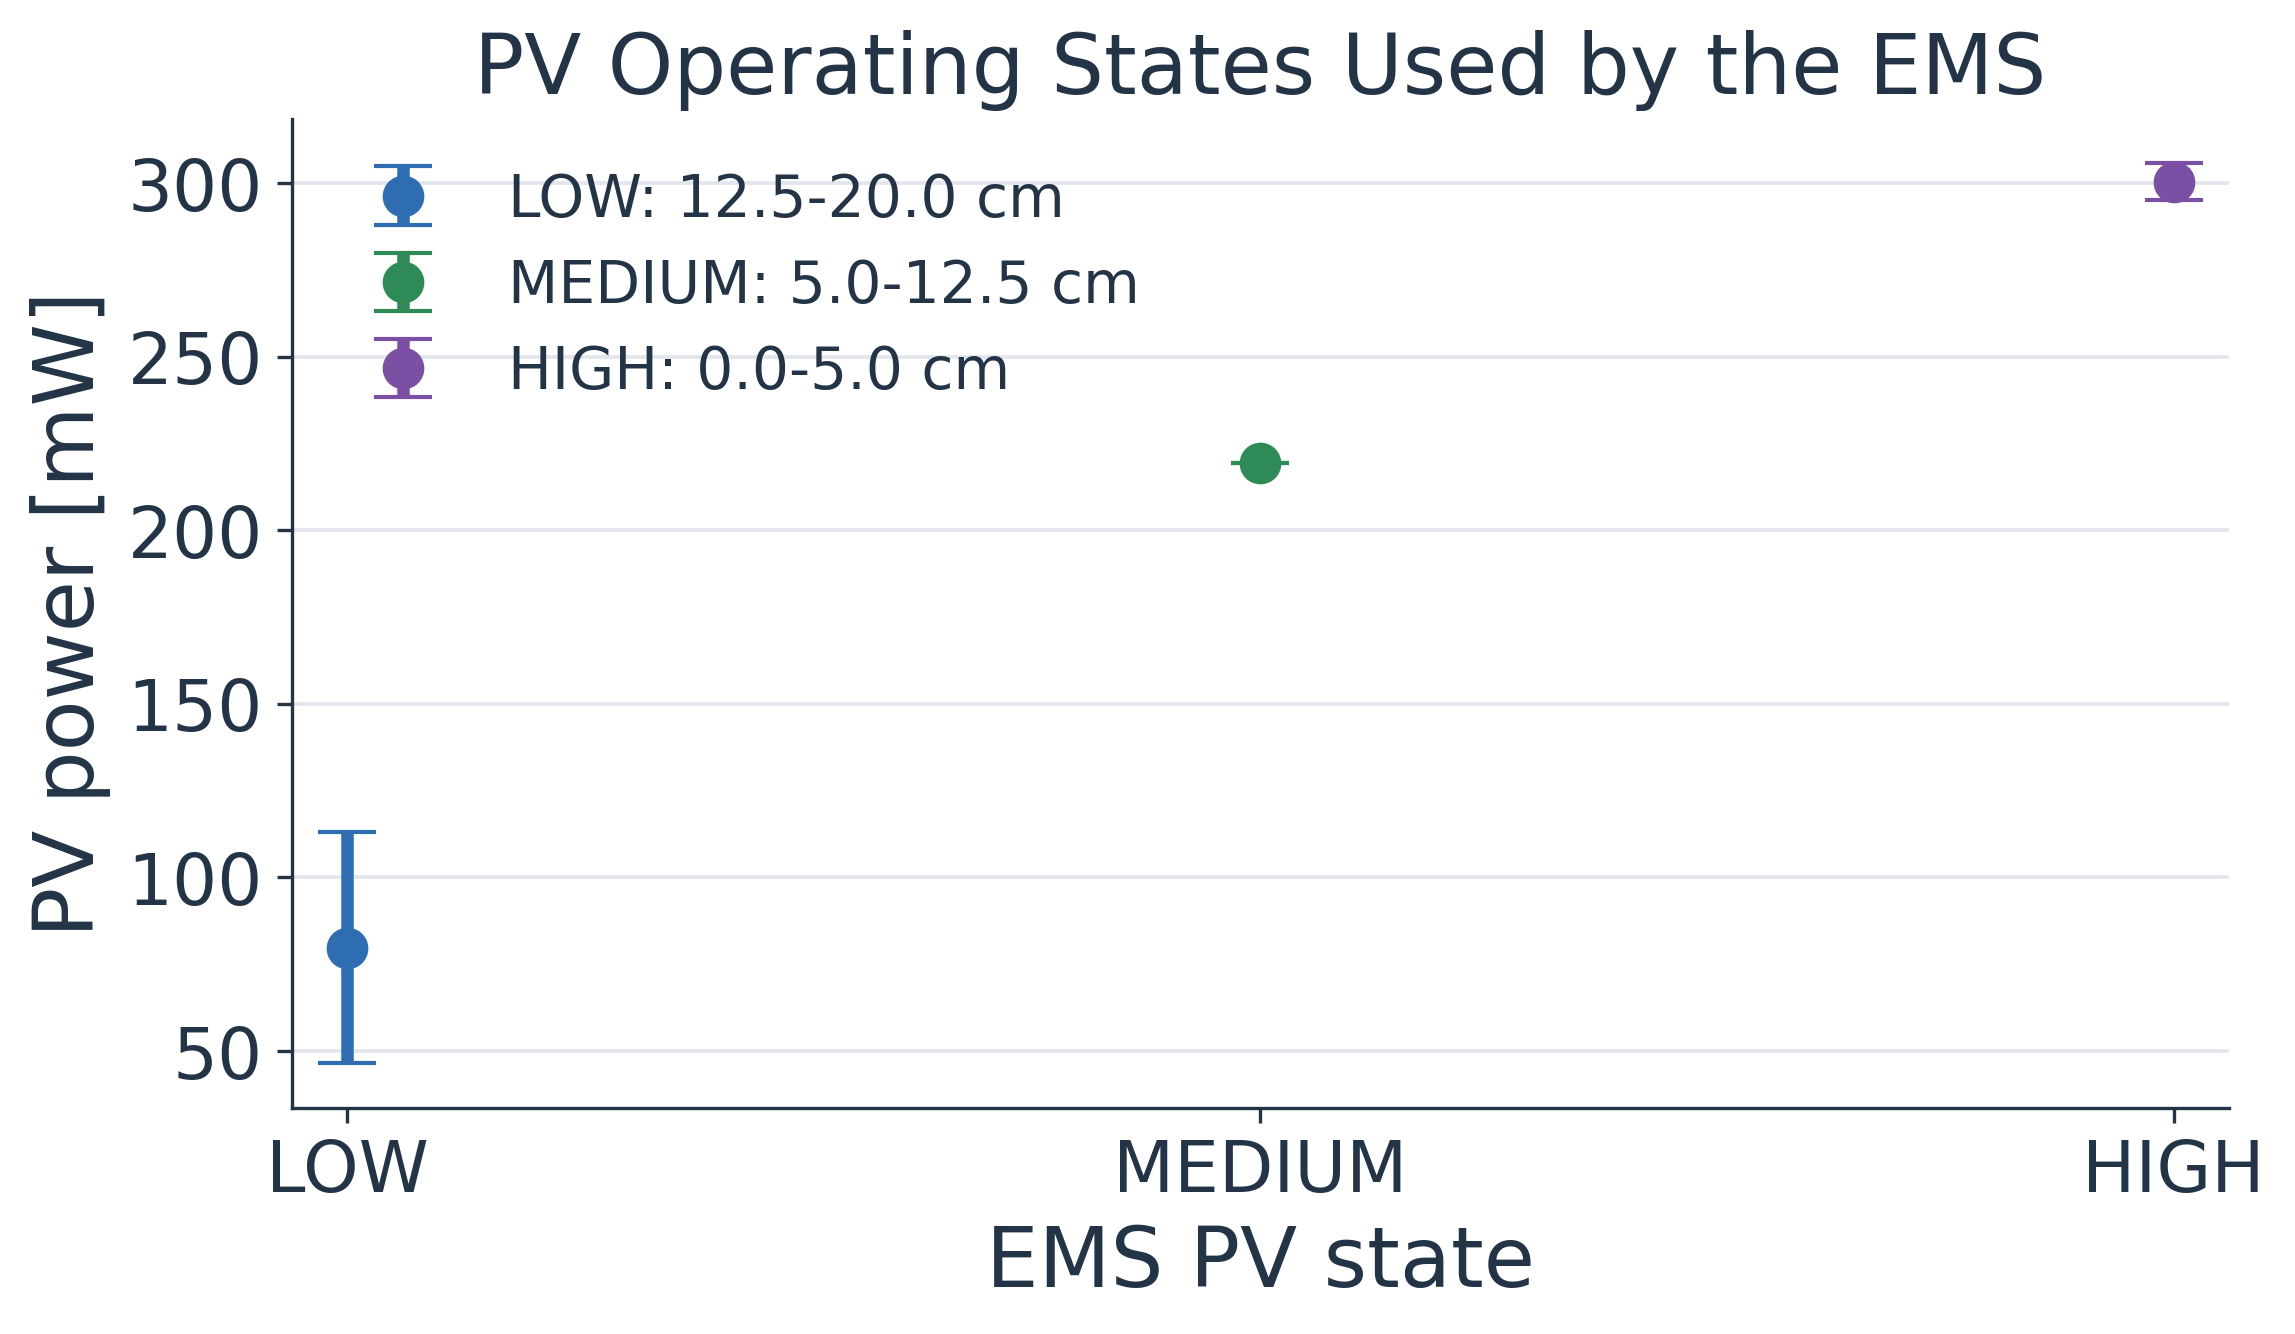
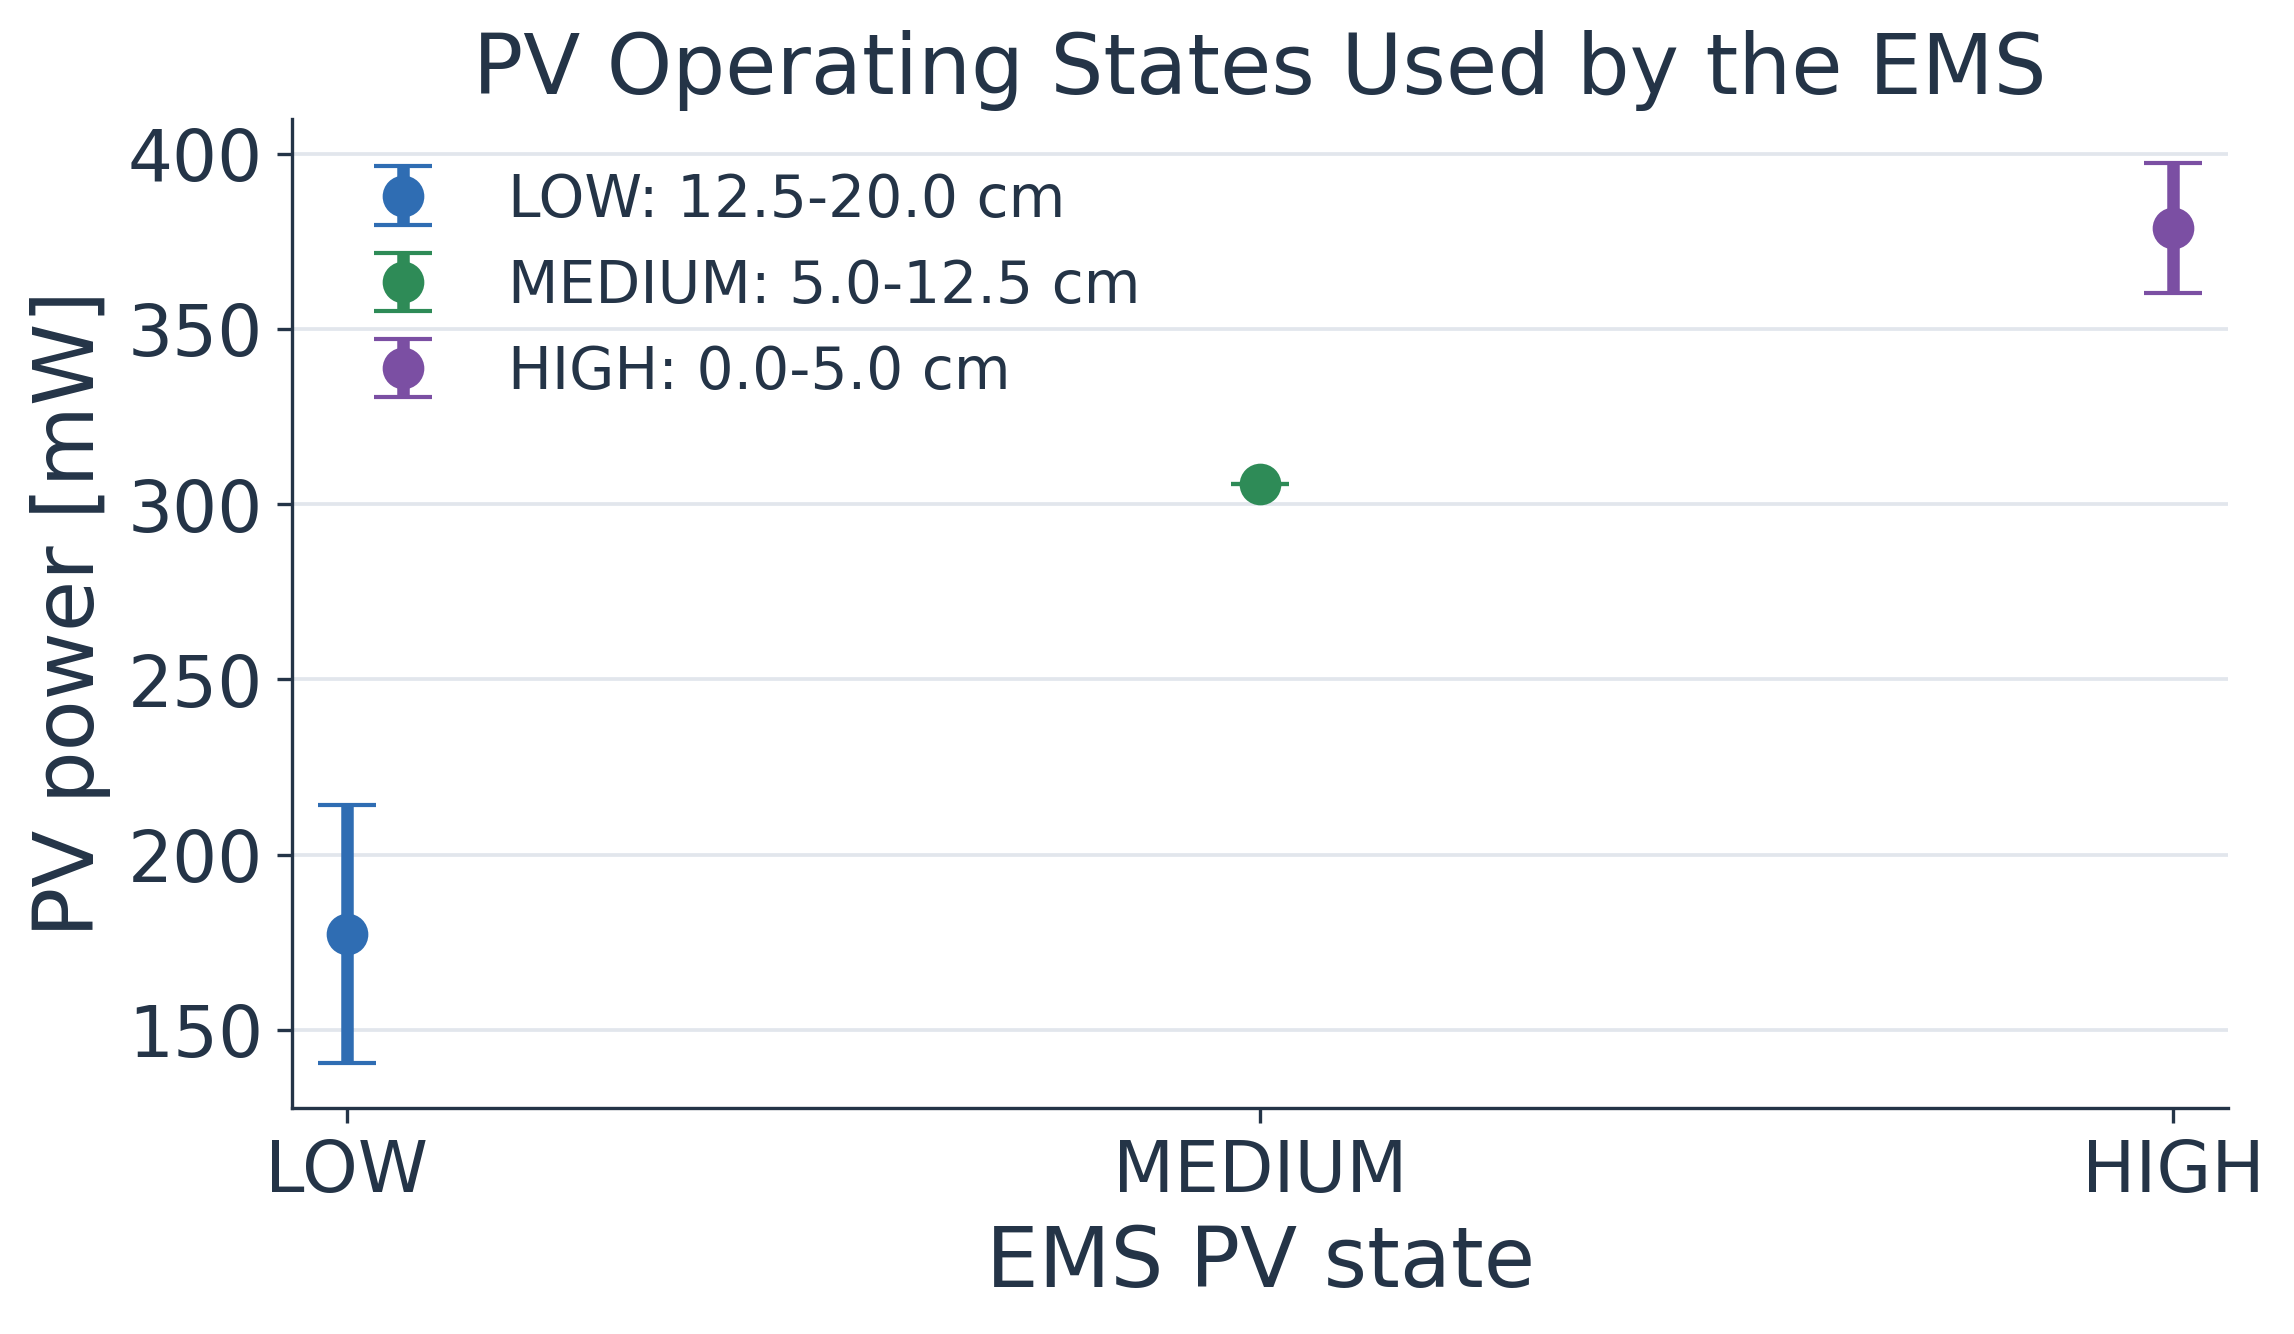
pv updated plots

diff --git a/data_treatment/scripts_PV/data_analysis_pv.py b/data_treatment/scripts_PV/data_analysis_pv.py
@@ -8,6 +8,9 @@ from pathlib import Path
 import sys
 import numpy as np
 import pandas as pd
+import matplotlib
+
+matplotlib.use("Agg")
 import matplotlib.pyplot as plt
 
 
@@ -21,7 +24,7 @@ def find_bachelor_dir():
 
 
 BACHELOR_DIR = find_bachelor_dir()
-sys.path.append(str(BACHELOR_DIR / "data_treatment"))
+sys.path.append(str(BACHELOR_DIR))
 
 from data_treatment.plots.plot_style import DISTANCE_COLORS, GREEN, PURPLE, BLUE, polish_axes, save_report_figure, set_report_style
 
@@ -69,8 +72,8 @@ def extract_distance_from_filename(file_path):
 def read_pv_log(file_path):
     """
     Read PV test log file and extract relevant sensor data.
-    ina2 is the PV panel (based on voltage 4.2-4.6V and positive current).
-    Uses raw data without calibration to avoid systematic errors.
+    ina3 is the PV panel in the EMS logger.
+    Uses raw data without calibration to match the PV ramp notebook analysis.
     """
     df = pd.read_csv(file_path)
     df.columns = df.columns.str.strip()
@@ -79,10 +82,9 @@ def read_pv_log(file_path):
     df["timestamp"] = pd.to_datetime(df["timestamp"])
     df["time_s"] = (df["timestamp"] - df["timestamp"].iloc[0]).dt.total_seconds()
     
-    # Extract PV sensor data (ina2 - voltage 4.2-4.6V, positive current = supply)
-    # Use raw data without calibration since calibration constants may be for different sensor
-    df["pv_voltage_V"] = pd.to_numeric(df["ina2_bus_V"], errors="coerce")
-    df["pv_current_A"] = pd.to_numeric(df["ina2_current_mA"], errors="coerce") / 1000
+    # Extract PV sensor data (ina3 / 0x44).
+    df["pv_voltage_V"] = pd.to_numeric(df["ina3_bus_V"], errors="coerce")
+    df["pv_current_A"] = pd.to_numeric(df["ina3_current_mA"], errors="coerce") / 1000
     
     # Calculate power (positive = sourcing from PV)
     df["pv_power_mW"] = df["pv_voltage_V"] * df["pv_current_A"] * 1000
@@ -110,8 +112,9 @@ def identify_ramp_start(df, threshold_A=0.05):
 
 def extract_steady_state_metrics(df, start_idx=0):
     """
-    Extract steady-state metrics from the test data.
-    Assumes data ramped to maximum and held briefly.
+    Extract representative metrics from the PV load ramp.
+    The ramp sweeps through load points, so the maximum power point is more
+    meaningful than averaging the final part of the ramp.
     """
     if start_idx > 0 and start_idx < len(df):
         df = df.iloc[start_idx:].copy()
@@ -131,18 +134,14 @@ def extract_steady_state_metrics(df, start_idx=0):
         "max_power_mW": df["pv_power_mW"].max(),
         "avg_power_mW": df["pv_power_mW"].mean(),
     }
-    
-    # Estimate steady-state (last 20% of ramp)
-    ss_start = int(0.8 * len(df))
-    if ss_start < len(df):
-        ss_data = df.iloc[ss_start:]
-        metrics.update({
-            "ss_avg_voltage_V": ss_data["pv_voltage_V"].mean(),
-            "ss_avg_current_A": ss_data["pv_current_A"].mean(),
-            "ss_avg_power_mW": ss_data["pv_power_mW"].mean(),
-            "ss_min_power_mW": ss_data["pv_power_mW"].min(),
-            "ss_max_power_mW": ss_data["pv_power_mW"].max(),
-        })
+
+    mpp_idx = df["pv_power_mW"].idxmax()
+    mpp_row = df.loc[mpp_idx]
+    metrics.update({
+        "mpp_voltage_V": mpp_row["pv_voltage_V"],
+        "mpp_current_A": mpp_row["pv_current_A"],
+        "mpp_power_mW": mpp_row["pv_power_mW"],
+    })
     
     return metrics
 
@@ -168,8 +167,8 @@ def analyze_all_tests():
                 metrics["file"] = file_path.name
                 results.append(metrics)
                 
-                print(f"  Max Power: {metrics['ss_avg_power_mW']:.2f} mW @ {distance_cm} cm")
-                print(f"  Max Current: {metrics['ss_avg_current_A']:.3f} A")
+                print(f"  MPP Power: {metrics['mpp_power_mW']:.2f} mW @ {distance_cm} cm")
+                print(f"  MPP Current: {metrics['mpp_current_A']:.3f} A")
                 
         except Exception as e:
             print(f"  ERROR: {e}")
@@ -215,11 +214,11 @@ def create_pv_state_table(summary_df):
             "min_distance_cm": min_distance,
             "max_distance_cm": max_distance,
             "test_distances_cm": ", ".join(str(int(value)) for value in group["distance_cm"]),
-            "avg_voltage_V": group["ss_avg_voltage_V"].mean(),
-            "min_power_mW": group["ss_avg_power_mW"].min(),
-            "avg_power_mW": group["ss_avg_power_mW"].mean(),
-            "max_power_mW": group["ss_avg_power_mW"].max(),
-            "max_current_A": group["ss_avg_current_A"].max(),
+            "avg_voltage_V": group["mpp_voltage_V"].mean(),
+            "min_power_mW": group["mpp_power_mW"].min(),
+            "avg_power_mW": group["mpp_power_mW"].mean(),
+            "max_power_mW": group["mpp_power_mW"].max(),
+            "max_current_A": group["mpp_current_A"].max(),
         })
 
     return pd.DataFrame(states)
@@ -230,15 +229,15 @@ def create_operating_thresholds(summary_df, state_table):
     Create a control parameters table with key thresholds for algorithm.
     """
     # Find minimum usable voltage (lowest voltage with meaningful power)
-    min_voltage = summary_df["ss_avg_voltage_V"].min()
-    max_voltage = summary_df["ss_avg_voltage_V"].max()
+    min_voltage = summary_df["mpp_voltage_V"].min()
+    max_voltage = summary_df["mpp_voltage_V"].max()
     
     # Find maximum available current
-    max_current = summary_df["ss_avg_current_A"].max()
+    max_current = summary_df["mpp_current_A"].max()
     
     # Find power levels for decision thresholds
-    max_power = summary_df["ss_avg_power_mW"].max()
-    min_usable_power = summary_df["ss_avg_power_mW"].min() * 0.5  # Conservative estimate
+    max_power = summary_df["mpp_power_mW"].max()
+    min_usable_power = summary_df["mpp_power_mW"].min() * 0.5  # Conservative estimate
     
     thresholds = {
         "min_pv_voltage_V": [max(min_voltage - 0.1, 2.0)],  # Minimum voltage to expect PV
@@ -260,23 +259,15 @@ def generate_plots(summary_df, state_table):
     fig, ax = plt.subplots(figsize=(8.0, 4.8))
     ax.plot(
         summary_df["distance_cm"],
-        summary_df["ss_avg_power_mW"],
+        summary_df["mpp_power_mW"],
         marker="o",
         color=BLUE,
-        label="Steady-state power",
-    )
-    ax.fill_between(
-        summary_df["distance_cm"],
-        summary_df["ss_min_power_mW"],
-        summary_df["ss_max_power_mW"],
-        color=BLUE,
-        alpha=0.16,
-        label="Observed range",
+        label="Maximum power point",
     )
     ax.invert_xaxis()
     ax.set_xlabel("Lamp distance [cm]")
     ax.set_ylabel("PV power [mW]")
-    ax.set_title("PV Power Under Different Illumination Levels")
+    ax.set_title("PV Maximum Power Under Different Illumination Levels")
     ax.legend(loc="upper right")
     polish_axes(ax)
     save_report_figure(fig, PLOT_DIR / "pv_power_vs_distance.png")
@@ -284,15 +275,15 @@ def generate_plots(summary_df, state_table):
     fig, ax = plt.subplots(figsize=(8.0, 4.8))
     ax.plot(
         summary_df["distance_cm"],
-        summary_df["ss_avg_voltage_V"],
+        summary_df["mpp_voltage_V"],
         marker="o",
         color=GREEN,
-        label="Steady-state voltage",
+        label="Voltage at MPP",
     )
     ax.invert_xaxis()
     ax.set_xlabel("Lamp distance [cm]")
     ax.set_ylabel("PV voltage [V]")
-    ax.set_title("PV Voltage Under Different Illumination Levels")
+    ax.set_title("PV Voltage at Maximum Power")
     ax.legend(loc="best")
     polish_axes(ax)
     save_report_figure(fig, PLOT_DIR / "pv_voltage_vs_distance.png")
@@ -300,15 +291,15 @@ def generate_plots(summary_df, state_table):
     fig, ax = plt.subplots(figsize=(8.0, 4.8))
     ax.plot(
         summary_df["distance_cm"],
-        summary_df["ss_avg_current_A"] * 1000,
+        summary_df["mpp_current_A"] * 1000,
         marker="o",
         color=PURPLE,
-        label="Steady-state current",
+        label="Current at MPP",
     )
     ax.invert_xaxis()
     ax.set_xlabel("Lamp distance [cm]")
     ax.set_ylabel("PV current [mA]")
-    ax.set_title("PV Current Under Different Illumination Levels")
+    ax.set_title("PV Current at Maximum Power")
     ax.legend(loc="best")
     polish_axes(ax)
     save_report_figure(fig, PLOT_DIR / "pv_current_vs_distance.png")
